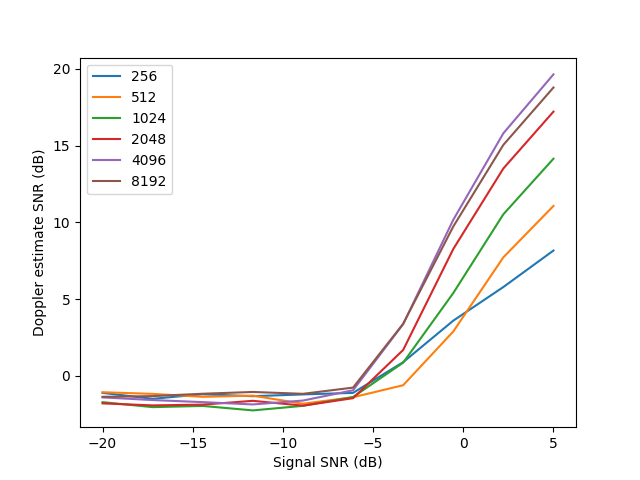
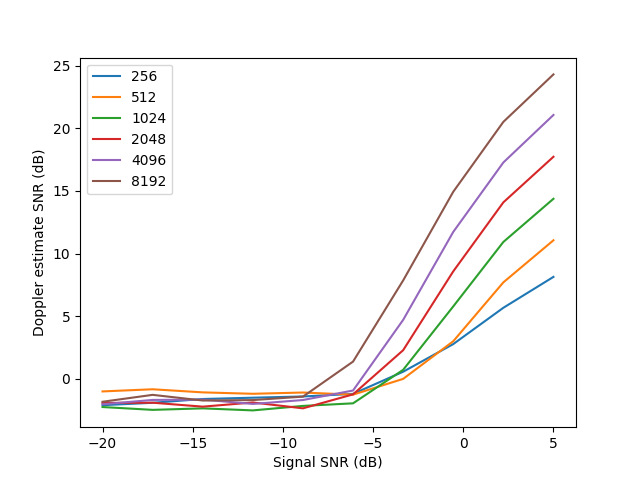
Using larger processing windows and more doppler samples helps

diff --git a/doppler_perfvalidation.py b/doppler_perfvalidation.py
@@ -72,7 +72,7 @@ parser.add_argument('--window_size',
 parser.add_argument('--windows',
                     type=int,
                     help='Number of windows to process',
-                    default=256)
+                    default=512)
 parser.add_argument('--center',
                     help='Desired center frequency in Hz',
                     type=int,
@@ -84,7 +84,7 @@ parser.add_argument('--bandpass',
 parser.add_argument('--dopplersamples',
                     help='Number of Doppler samples',
                     type=int,
-                    default=256)
+                    default=1024)
 parser.add_argument('--dopplerstart',
                     help='Doppler search start frequency (Hz)',
                     type=float,
